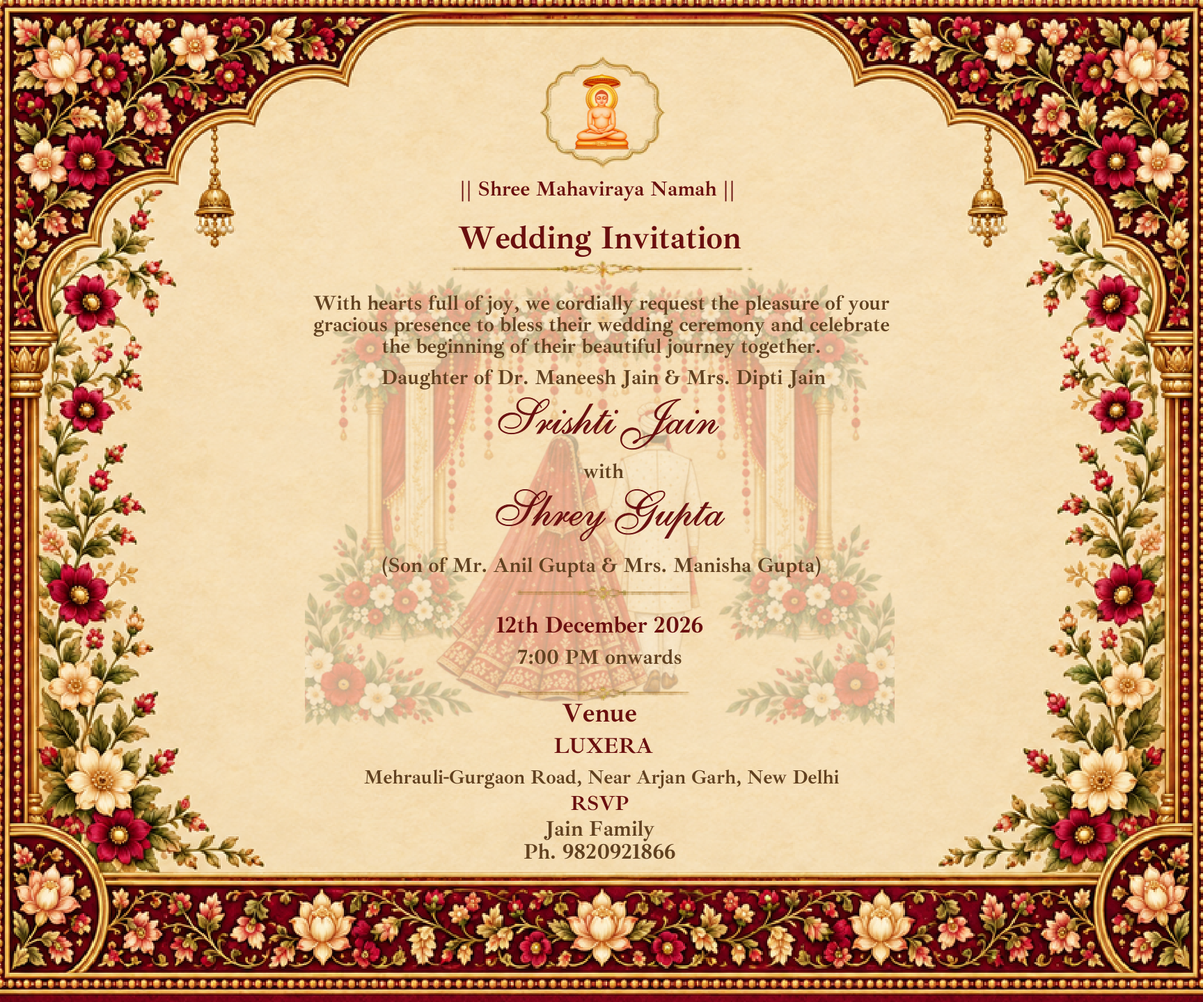
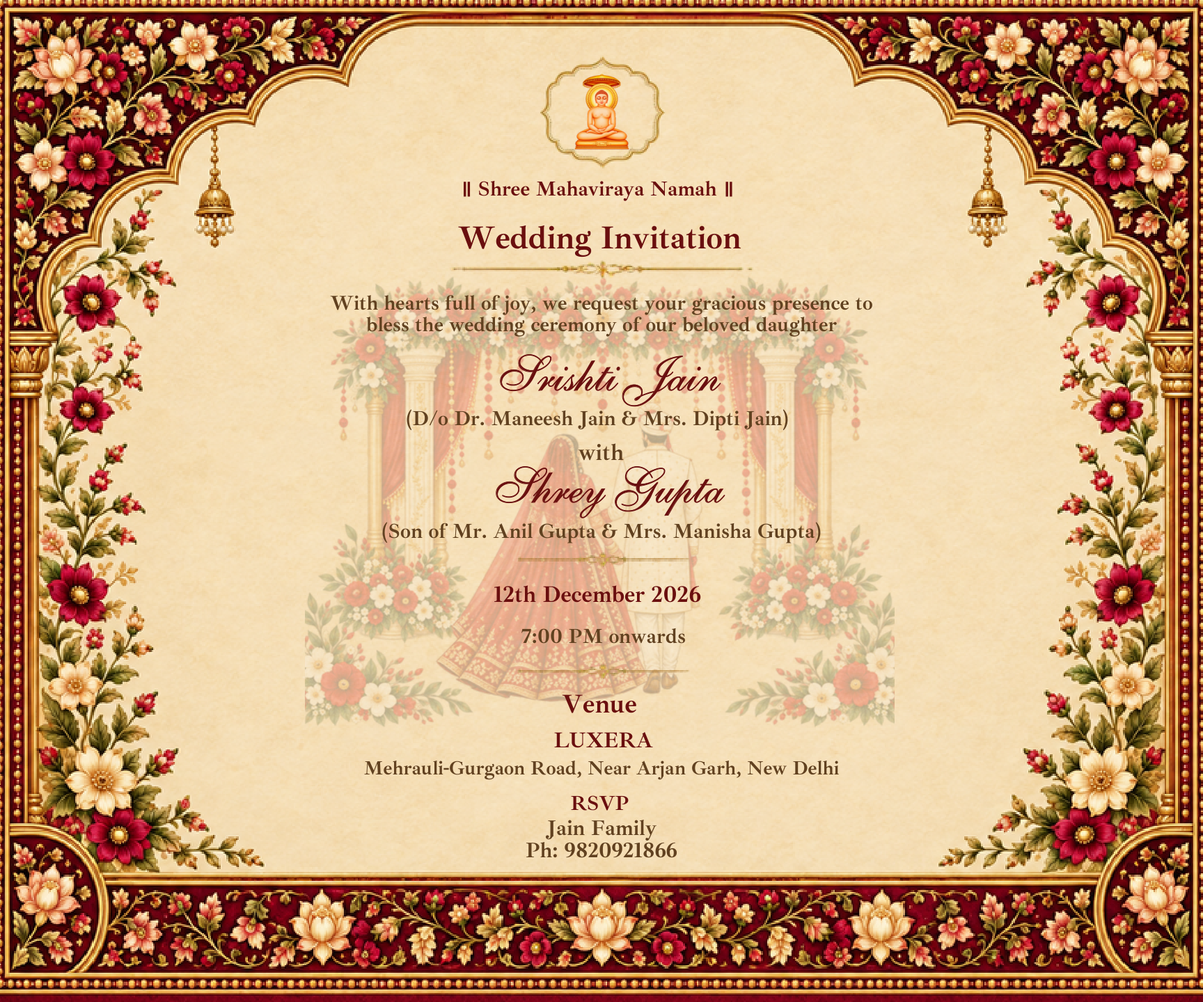
Refresh formal invite and simplify RSVP

Changed region(s): [[0.25, 0.2812, 0.75, 0.7812], [0.4375, 0.8125, 0.5625, 0.875], [0.3125, 0.5312, 0.3438, 0.5938]]

diff --git a/nikki-wedding-cloudflare/app/invitation-client.tsx b/nikki-wedding-cloudflare/app/invitation-client.tsx
@@ -1,20 +1,20 @@
 'use client';
-import {useEffect,useState} from 'react';import {Config,EventInfo,dateLabel,guestEventName,isFormalWedding,selectDesign,timeLabel,rsvpEventId} from '@/lib/invitation';import {Dialog,DialogContent,DialogTitle,DialogDescription} from '@/components/ui/dialog';import {Checkbox} from '@/components/ui/checkbox';import {RadioGroup,RadioGroupItem} from '@/components/ui/radio-group';import {MapPin,CalendarDays,Heart,Mail,RotateCcw} from 'lucide-react';
+import {useEffect,useState} from 'react';import {Config,EventInfo,dateLabel,guestEventName,isFormalWedding,selectDesign,timeLabel} from '@/lib/invitation';import {Dialog,DialogContent,DialogTitle,DialogDescription} from '@/components/ui/dialog';import {Checkbox} from '@/components/ui/checkbox';import {RadioGroup,RadioGroupItem} from '@/components/ui/radio-group';import {MapPin,CalendarDays,Heart,Mail,RotateCcw} from 'lucide-react';
 function calendar(e:EventInfo,couple:string){const esc=(s:string)=>s.replace(/\\/g,'\\\\').replace(/\n/g,'\\n').replace(/,/g,'\\,').replace(/;/g,'\\;');const stamp=(t:string)=>e.date.replaceAll('-','')+'T'+t.replace(':','')+'00';const text=['BEGIN:VCALENDAR','VERSION:2.0','PRODID:-//Srishti Shrey//Wedding//EN','BEGIN:VEVENT','UID:'+e.id+'-2026@invitation','DTSTAMP:'+new Date().toISOString().replace(/[-:]/g,'').replace(/\.\d{3}/,''),'DTSTART;TZID=Asia/Kolkata:'+stamp(e.time),'DTEND;TZID=Asia/Kolkata:'+stamp(e.end),'SUMMARY:'+esc(guestEventName(e)+' · '+couple),'LOCATION:'+esc(e.venue+', '+e.city),'DESCRIPTION:'+esc(e.note),'END:VEVENT','END:VCALENDAR'].join('\r\n');const u=URL.createObjectURL(new Blob([text],{type:'text/calendar'}));const a=document.createElement('a');a.href=u;a.download=e.id+'.ics';a.click();setTimeout(()=>URL.revokeObjectURL(u),1000);}
-export default function Invitation({config:c,invite,preview=false}:{config:Config;invite?:any;preview?:boolean}){const initialSelection=c.events.filter(e=>!isFormalWedding(e.id)).map(e=>e.id);const [opened,setOpened]=useState(false),[selection,setSelection]=useState(initialSelection),[detail,setDetail]=useState<EventInfo|null>(null),[zoomed,setZoomed]=useState(false),[rsvpOpen,setRsvpOpen]=useState(false),[attendance,setAttendance]=useState(invite?.rsvp?.attendance||'yes'),[attending,setAttending]=useState<string[]>(invite?.rsvp?.events||(invite?.events||initialSelection).map(rsvpEventId)),[count,setCount]=useState(invite?.rsvp?.count||1),[guestName,setGuestName]=useState(invite?.rsvp?.name||invite?.name||''),[message,setMessage]=useState(invite?.rsvp?.message||''),[status,setStatus]=useState(''),[saving,setSaving]=useState(false),[saved,setSaved]=useState(invite?.rsvp||null);
-const ids=invite?.events||selection;const events=c.events.filter(e=>ids.includes(e.id));const rsvpOptions=events.filter((e,i)=>events.findIndex(other=>rsvpEventId(other.id)===rsvpEventId(e.id))===i).map(e=>({id:rsvpEventId(e.id),name:rsvpEventId(e.id)==='wedding'?'Wedding':e.name}));
+export default function Invitation({config:c,invite,preview=false}:{config:Config;invite?:any;preview?:boolean}){const initialSelection=c.events.filter(e=>!isFormalWedding(e.id)).map(e=>e.id);const [opened,setOpened]=useState(false),[selection,setSelection]=useState(initialSelection),[detail,setDetail]=useState<EventInfo|null>(null),[zoomed,setZoomed]=useState(false),[rsvpOpen,setRsvpOpen]=useState(false),[attendance,setAttendance]=useState(invite?.rsvp?.attendance||'yes'),[guestName,setGuestName]=useState(invite?.rsvp?.name||invite?.name||''),[status,setStatus]=useState(''),[saving,setSaving]=useState(false),[saved,setSaved]=useState(invite?.rsvp||null);
+const ids=invite?.events||selection;const events=c.events.filter(e=>ids.includes(e.id));
 useEffect(()=>{const ctx=(document as any).modelContext;if(!ctx?.registerTool)return;const life=new AbortController();Promise.resolve(ctx.registerTool({name:'open_wedding_invitation',description:'Open the envelope and reveal this invitation’s event cards.',inputSchema:{type:'object',properties:{},additionalProperties:false},annotations:{readOnlyHint:false},execute(){setOpened(true);return {opened:true,events:events.map(guestEventName)}}},{signal:life.signal})).catch(()=>{});return ()=>life.abort();},[ids.join(',')]);
 useEffect(()=>{setZoomed(false)},[detail?.id]);
-async function send(e:React.FormEvent){e.preventDefault();const who=guestName.trim();if(who.length<2){setStatus('Please enter your name.');return;}if(preview){setStatus('This is a preview. A response is saved only from a family invitation link.');return;}setSaving(true);setStatus('');try{const r=await fetch('/api/rsvp',{method:'POST',headers:{'Content-Type':'application/json'},body:JSON.stringify({token:invite.token,name:who,attendance,count:Number(count),events:attending,message})});const b:any=await r.json();if(!r.ok)throw Error(b.error);setSaved(b.rsvp);setStatus('Thank you, '+who+'! Your response has been saved. You can update it here anytime.');}catch(e){setStatus(e instanceof Error?e.message:'Please try again.')}finally{setSaving(false)}}
+async function send(e:React.FormEvent){e.preventDefault();const who=guestName.trim();if(who.length<2){setStatus('Please enter your name.');return;}if(preview){setStatus('This is a preview. A response is saved only from a family invitation link.');return;}setSaving(true);setStatus('');try{const r=await fetch('/api/rsvp',{method:'POST',headers:{'Content-Type':'application/json'},body:JSON.stringify({token:invite.token,name:who,attendance})});const b:any=await r.json();if(!r.ok)throw Error(b.error);setSaved(b.rsvp);setStatus('Thank you, '+who+'! Your response has been saved. You can update it here anytime.');}catch(e){setStatus(e instanceof Error?e.message:'Please try again.')}finally{setSaving(false)}}
 return <main className={'invitation '+(opened?'is-open':'')}>
 {preview&&<aside className="preview-bar"><span>Invitation preview</span></aside>}
-<header className={'invite-heading'+(opened?'':' is-closed')}><div className="eyebrow">{opened?'WITH LOVE & THE BLESSINGS OF OUR FAMILIES':'YOU ARE INVITED'}</div><h1>{c.couple}</h1><div className="heading-line"><span/> <Heart size={15} strokeWidth={1.3}/> <span/></div>{opened&&<p>{invite?.name?<>Dear {invite.name},<br/>we would love to celebrate with you.</>:'Together with our families, we invite you to celebrate.'}</p>}</header>
+<header className={'invite-heading'+(opened?'':' is-closed')}><div className="eyebrow">{opened?'WITH LOVE & THE BLESSINGS OF OUR FAMILIES':'YOU ARE INVITED'}</div><h1>{c.couple}</h1><div className="heading-line"><span/> <Heart size={15} strokeWidth={1.3}/> <span/></div></header>
 {preview&&<div className="preview-events" aria-label="Preview event combination">{c.events.map(e=><label key={e.id}><Checkbox checked={selection.includes(e.id)} disabled={selection.length===1&&selection.includes(e.id)} onCheckedChange={v=>setSelection(current=>selectDesign(current,e.id,!!v))}/>{guestEventName(e)}</label>)}</div>}
 <section className="envelope-stage" aria-label="Wedding invitation envelope">
 <div className={'envelope '+(opened?'opened':'')}><div className="envelope-inside"><Heart size={26}/><p>A celebration of love</p></div><div className="door left-door" style={{backgroundImage:`url("${c.envelope}")`}}/><div className="door right-door" style={{backgroundImage:`url("${c.envelope}")`}}/>{!opened&&<button className="envelope-hit" onClick={()=>setOpened(true)} aria-label="Open your wedding invitation"><span><Mail size={17}/> Tap to open</span></button>}</div>
 </section>
-{opened?<section className="revealed"><div className="section-title"><div className="eyebrow">YOU’RE INVITED TO</div><h2>Our celebrations</h2><p>Select a card to see the details</p></div><div className={'event-cards count-'+events.length}>{events.map((e,i)=><button className={'event-card '+e.id} style={{animationDelay:i*120+'ms'}} onClick={()=>setDetail(e)} key={e.id}><div className="card-image"><img src={e.image} alt={guestEventName(e)+' invitation artwork'}/></div><div className="card-caption"><h3>{guestEventName(e)}</h3><p>{new Date(e.date+'T12:00:00').toLocaleDateString('en-IN',{day:'numeric',month:'long'})} · {e.city}</p><span>View invitation</span></div></button>)}</div><div className="rsvp-callout"><div><div className="eyebrow">A LITTLE NOTE BACK</div><h2>Will you celebrate with us?</h2><p>{saved?'Saved for '+saved.name+'. You can update it below.':'We look forward to sharing these moments with you.'}</p></div><button className="primary" onClick={()=>{setRsvpOpen(true);setStatus('')}}>{saved?'Update RSVP':'Send RSVP'}</button></div><button className="text-button close-envelope" onClick={()=>setOpened(false)}><RotateCcw size={14}/> Close the envelope</button></section>:<p className="envelope-foot">A little invitation. A lifetime of memories.</p>}
+{opened?<section className="revealed"><div className={'event-cards count-'+events.length}>{events.map((e,i)=><button className={'event-card '+e.id} style={{animationDelay:i*120+'ms'}} onClick={()=>setDetail(e)} key={e.id}><div className="card-image"><img src={e.image} alt={guestEventName(e)+' invitation artwork'}/></div><div className="card-caption"><h3>{guestEventName(e)}</h3><p>{new Date(e.date+'T12:00:00').toLocaleDateString('en-IN',{day:'numeric',month:'long'})} · {e.city}</p><span>View invitation</span></div></button>)}</div><div className="rsvp-callout"><div><div className="eyebrow">A LITTLE NOTE BACK</div><h2>Will you celebrate with us?</h2><p>{saved?'Saved for '+saved.name+'. You can update it below.':'We look forward to sharing these moments with you.'}</p></div><button className="primary" onClick={()=>{setRsvpOpen(true);setStatus('')}}>{saved?'Update RSVP':'Send RSVP'}</button></div><button className="text-button close-envelope" onClick={()=>setOpened(false)}><RotateCcw size={14}/> Close the envelope</button></section>:<p className="envelope-foot">A little invitation. A lifetime of memories.</p>}
 <footer className="invite-footer">Srishti & Shrey <span>♡</span> December 2026</footer>
-<Dialog open={!!detail} onOpenChange={v=>!v&&setDetail(null)}><DialogContent className={"event-dialog"+(detail&&isFormalWedding(detail.id)?" formal-dialog":"")}>{detail&&<><div className="detail-art">{isFormalWedding(detail.id)?<button type="button" className={"formal-image-button"+(zoomed?" is-zoomed":"")} onClick={()=>setZoomed(value=>!value)} aria-label={zoomed?"Zoom out of formal invitation":"Zoom in on formal invitation"}><img src={detail.image} alt={guestEventName(detail)+' invitation'}/></button>:<img src={detail.image} alt={guestEventName(detail)+' invitation'}/>}</div><div className="detail-info"><div className="eyebrow">PLEASE JOIN US FOR</div><DialogTitle className="detail-title">{guestEventName(detail)}</DialogTitle><DialogDescription>{detail.note}</DialogDescription>{isFormalWedding(detail.id)&&<p className="formal-zoom-hint">Tap the artwork to zoom in, then scroll to read it.</p>}<div className="detail-row"><CalendarDays size={19}/><div>{dateLabel(detail)}<small>{timeLabel(detail)} onwards · India time</small></div></div><div className="detail-row"><MapPin size={19}/><div>{detail.venue}<small>{detail.city}</small></div></div>{detail.map?<a className="primary" href={detail.map} target="_blank" rel="noreferrer">Venue directions</a>:<p className="muted">Exact venue map link to be confirmed.</p>}<button className="secondary" onClick={()=>calendar(detail,c.couple)}>Add to calendar</button><button className="primary" onClick={()=>{setDetail(null);setRsvpOpen(true);setStatus('')}}>{saved?'Update RSVP':'RSVP'}</button></div></>}</DialogContent></Dialog>
-<Dialog open={rsvpOpen} onOpenChange={setRsvpOpen}><DialogContent className="rsvp-dialog"><div className="eyebrow">WE HOPE TO SEE YOU</div><DialogTitle className="detail-title">Your RSVP</DialogTitle><DialogDescription>{invite?.name?'Responding for '+invite.name:'Please share your name with your reply.'}</DialogDescription><form onSubmit={send}><label className="field">Your name<input required maxLength={120} autoComplete="name" value={guestName} onChange={e=>setGuestName(e.target.value)} placeholder="The name we should save with this RSVP"/></label><RadioGroup value={attendance} onValueChange={setAttendance} className="response-options"><label><RadioGroupItem value="yes"/>Joyfully accept</label><label><RadioGroupItem value="no"/>Regretfully decline</label></RadioGroup>{attendance==='yes'&&<><fieldset><legend>Which celebrations will you attend?</legend>{rsvpOptions.map(e=><label className="check-row" key={e.id}><Checkbox checked={attending.includes(e.id)} onCheckedChange={v=>setAttending(v?[...attending,e.id]:attending.filter(x=>x!==e.id))}/>{e.name}</label>)}</fieldset><label className="field">Total guests, including you<input type="number" min="1" max="30" required value={count} onChange={e=>setCount(Number(e.target.value))}/></label></>}<label className="field">A message for the family <span>(optional)</span><textarea maxLength={500} rows={3} value={message} onChange={e=>setMessage(e.target.value)} placeholder="Send your wishes…"/></label><button className="primary" disabled={saving}>{saving?'Saving…':'Submit RSVP'}</button><p role="status" className="form-status">{status}</p></form></DialogContent></Dialog>
+<Dialog open={!!detail} onOpenChange={v=>!v&&setDetail(null)}><DialogContent className={"event-dialog"+(detail&&isFormalWedding(detail.id)?" formal-dialog":"")}>{detail&&<><div className="detail-art">{isFormalWedding(detail.id)?<button type="button" className={"formal-image-button"+(zoomed?" is-zoomed":"")} onClick={()=>setZoomed(value=>!value)} aria-label={zoomed?"Zoom out of formal invitation":"Zoom in on formal invitation"}><img src={detail.image} alt={guestEventName(detail)+' invitation'}/></button>:<img src={detail.image} alt={guestEventName(detail)+' invitation'}/>}</div><div className="detail-info"><div className="eyebrow">PLEASE JOIN US FOR</div><DialogTitle className="detail-title">{guestEventName(detail)}</DialogTitle><DialogDescription>{detail.note}</DialogDescription>{isFormalWedding(detail.id)&&<p className="formal-zoom-hint">Tap the artwork to zoom in, then scroll to read it.</p>}<div className="detail-row"><CalendarDays size={19}/><div>{dateLabel(detail)}<small>{timeLabel(detail)} onwards · India time</small></div></div><div className="detail-row"><MapPin size={19}/><div>{detail.venue}<small>{detail.city}</small></div></div>{detail.map&&<a className="primary" href={detail.map} target="_blank" rel="noreferrer">Open in Google Maps</a>}<button className="secondary" onClick={()=>calendar(detail,c.couple)}>Add to calendar</button><button className="primary" onClick={()=>{setDetail(null);setRsvpOpen(true);setStatus('')}}>{saved?'Update RSVP':'RSVP'}</button></div></>}</DialogContent></Dialog>
+<Dialog open={rsvpOpen} onOpenChange={setRsvpOpen}><DialogContent className="rsvp-dialog"><div className="eyebrow">WE HOPE TO SEE YOU</div><DialogTitle className="detail-title">Your RSVP</DialogTitle><DialogDescription>{invite?.name?'Responding for '+invite.name:'Please share your name with your reply.'}</DialogDescription><form onSubmit={send}><label className="field">Your name<input required maxLength={120} autoComplete="name" value={guestName} onChange={e=>setGuestName(e.target.value)} placeholder="The name we should save with this RSVP"/></label><RadioGroup value={attendance} onValueChange={setAttendance} className="response-options"><label><RadioGroupItem value="yes"/>Joyfully accept</label><label><RadioGroupItem value="no"/>Regretfully decline</label></RadioGroup><button className="primary" disabled={saving}>{saving?'Saving…':'Submit RSVP'}</button><p role="status" className="form-status">{status}</p></form></DialogContent></Dialog>
 </main>}

diff --git a/nikki-wedding-cloudflare/app/admin/manager.tsx b/nikki-wedding-cloudflare/app/admin/manager.tsx
@@ -11,8 +11,8 @@ async function copy(s:string){try{await navigator.clipboard.writeText(s);setStat
 function whatsApp(link:string,who:string){const text=(who?`Dear ${who}, you are invited`:'You are invited')+` to celebrate with Srishti Jain and Shrey Gupta.\n${link}`;window.open('https://wa.me/?text='+encodeURIComponent(text),'_blank','noopener,noreferrer')}
 function exportCsv(){const rows=[['Family','Responded by','Invited events','RSVP','Attending events','Guest count','Message'],...data.guests.filter((g:any)=>g.kind!=='generic').map((g:any)=>[g.kind==='response'?'':g.name,g.rsvp?.name||g.name,g.events.join(' + '),g.rsvp?.attendance||'Awaiting response',g.rsvp?.events.join(' + ')||'',g.rsvp?.count??'',g.rsvp?.message||''])];const csv=rows.map(r=>r.map((x:any)=>'"'+String(x).replace(/"/g,'""').replace(/^[=+@-]/,"'$&")+'"').join(',')).join('\r\n');const u=URL.createObjectURL(new Blob(['\ufeff'+csv],{type:'text/csv;charset=utf-8'}));const a=document.createElement('a');a.href=u;a.download='wedding-rsvps.csv';a.click();setTimeout(()=>URL.revokeObjectURL(u),1000)}
 if(!c||!data)return <main className="notice"><h1>Family invitation studio</h1><p role="status">{status||'Opening your invitations…'}</p><button className="secondary" onClick={load}>Retry</button></main>;
-return <main className="studio"><header className="studio-header"><a className="studio-brand" href="/"><Mail size={22}/> S <span>&</span> S</a><div className="flex gap-3"><a className="secondary" href="/" target="_blank">Preview invitation <ExternalLink size={15}/></a><form method="post" action="/api/admin/logout"><button className="secondary">Sign out</button></form></div></header><div className="studio-intro"><div className="eyebrow">FOR THE FAMILY</div><h1>Invitation studio</h1><p>Choose who joins each celebration, and make every invitation your own.</p></div><div className="stats"><div><strong>{data.guests.filter((g:any)=>g.kind!=='generic'&&g.kind!=='response').length}</strong><span>Family invitations</span></div><div><strong>{data.guests.filter((g:any)=>g.rsvp).length}</strong><span>Responses received</span></div><div><strong>{data.guests.reduce((n:number,g:any)=>n+(g.kind==='generic'?0:g.rsvp?.count||0),0)}</strong><span>Guests accepting</span></div></div>
+return <main className="studio"><header className="studio-header"><a className="studio-brand" href="/"><Mail size={22}/> S <span>&</span> S</a><div className="flex gap-3"><a className="secondary" href="/" target="_blank">Preview invitation <ExternalLink size={15}/></a><form method="post" action="/api/admin/logout"><button className="secondary">Sign out</button></form></div></header><div className="studio-intro"><div className="eyebrow">FOR THE FAMILY</div><h1>Invitation studio</h1><p>Choose who joins each celebration, and make every invitation your own.</p></div><div className="stats"><div><strong>{data.guests.filter((g:any)=>g.kind!=='generic'&&g.kind!=='response').length}</strong><span>Family invitations</span></div><div><strong>{data.guests.filter((g:any)=>g.rsvp).length}</strong><span>Responses received</span></div><div><strong>{data.guests.filter((g:any)=>g.kind!=='generic'&&g.rsvp?.attendance==='yes').length}</strong><span>Accepting RSVPs</span></div></div>
 <Tabs defaultValue="guests"><TabsList className="studio-tabs"><TabsTrigger value="guests"><Users size={16}/> Guests & RSVP</TabsTrigger><TabsTrigger value="artwork"><ImagePlus size={16}/> Artwork & events</TabsTrigger></TabsList>
-<TabsContent value="guests"><div className="guest-layout"><section className="panel"><h2>Create an invitation</h2><p>Only the celebrations you select will appear for this family.</p><form onSubmit={e=>{e.preventDefault();act(async()=>{const b:any=await post({action:'guest',name,events});setNewLink(location.origin+'/i/'+b.token);setSentTo(name.trim());setName('');await load();setStatus('Invitation created. Copy the link and send it on WhatsApp.');})}}><label className="field">Guest or family name<input required maxLength={120} value={name} onChange={e=>setName(e.target.value)} placeholder="e.g. The Joshi family"/></label><fieldset><legend>Invite them to</legend>{c.events.map(e=><label className="check-row" key={e.id}><Checkbox checked={events.includes(e.id)} onCheckedChange={v=>setEvents(current=>selectDesign(current,e.id,!!v))}/>{adminEventName(e)}</label>)}</fieldset><button className="primary" disabled={busy||!events.length}>Create invitation link</button></form>{newLink&&<div className="new-link"><label className="field">Invitation link<input readOnly value={newLink}/></label><button className="secondary" onClick={()=>copy(newLink)}><Copy size={15}/>Copy link</button><button className="primary" onClick={()=>whatsApp(newLink,sentTo||'family')}>Send on WhatsApp</button><a className="secondary" href={newLink} target="_blank">Open invitation</a></div>}</section><section className="panel guest-list"><div className="panel-heading"><h2>Guest list</h2><button className="text-button" onClick={exportCsv}><Download size={15}/>Export CSV</button></div>{!data.guests.some((g:any)=>g.kind!=='generic')?<div className="empty"><Mail size={30}/><h3>Your first invitation starts here</h3><p>Add a family and select their celebrations.</p></div>:<div className="table-scroll"><Table><TableHeader><TableRow><TableHead>Family</TableHead><TableHead>Invited to</TableHead><TableHead>RSVP</TableHead><TableHead>Link</TableHead></TableRow></TableHeader><TableBody>{data.guests.filter((g:any)=>g.kind!=='generic').map((g:any)=><TableRow key={g.token}><TableCell><strong>{g.name||'Reply'}</strong>{g.kind==='response'&&<small>From a generic link</small>}{g.rsvp?.name&&<small>RSVP from {g.rsvp.name}</small>}{g.rsvp?.message&&<small>{g.rsvp.message}</small>}</TableCell><TableCell>{g.events.map((id:string)=>adminEventName(c.events.find(e=>e.id===id)!)).join(', ')}</TableCell><TableCell><span className={'badge '+(g.rsvp?.attendance||'pending')}>{g.rsvp?(g.rsvp.attendance==='yes'?g.rsvp.count+' attending':'Declined'):'Awaiting'}</span>{g.rsvp?.attendance==='yes'&&<small>{g.rsvp.events.join(', ')}</small>}</TableCell><TableCell><button className="text-button" aria-label={'Copy invitation for '+g.name} onClick={()=>copy(location.origin+'/i/'+g.token)}><Copy size={16}/></button><button className="text-button" aria-label={'Send WhatsApp invitation for '+g.name} onClick={()=>whatsApp(location.origin+'/i/'+g.token,g.name)}>WhatsApp</button></TableCell></TableRow>)}</TableBody></Table></div>}</section></div><section className="panel" style={{marginTop:24}}><div className="panel-heading"><div><h2>Generic links</h2><p>No name on the card. Share one link with a group. Each person still enters their name when they RSVP.</p></div><button className="secondary" disabled={busy} onClick={()=>act(async()=>{await post({action:'generics'});await load();setStatus('The generic links are ready to copy.');})}>Create all 15</button></div><div className="generic-links">{genericCombinations.map(ids=>{const row=data.guests.find((g:any)=>g.kind==='generic'&&ids.every(id=>g.events.includes(id))&&g.events.length===ids.length);const label=ids.map(id=>adminEventName(c.events.find(e=>e.id===id)!)).join(' + ');const link=row?location.origin+'/i/'+row.token:'';return <div className="generic-row" key={ids.join()}><strong>{label}</strong>{row?<div className="flex gap-3"><button className="text-button" onClick={()=>copy(link)}><Copy size={15}/>Copy link</button><button className="text-button" onClick={()=>whatsApp(link,'')}>WhatsApp</button><a className="text-button" href={link} target="_blank">Open</a></div>:<button className="secondary" disabled={busy} onClick={()=>act(async()=>{const b:any=await post({action:'guest',generic:true,name:'',events:ids});setNewLink(location.origin+'/i/'+b.token);setSentTo('');await load();setStatus(label+' link is ready.');})}>Create link</button>}</div>})}</div></section></TabsContent>
+<TabsContent value="guests"><div className="guest-layout"><section className="panel"><h2>Create an invitation</h2><p>Only the celebrations you select will appear for this family.</p><form onSubmit={e=>{e.preventDefault();act(async()=>{const b:any=await post({action:'guest',name,events});setNewLink(location.origin+'/i/'+b.token);setSentTo(name.trim());setName('');await load();setStatus('Invitation created. Copy the link and send it on WhatsApp.');})}}><label className="field">Guest or family name<input required maxLength={120} value={name} onChange={e=>setName(e.target.value)} placeholder="e.g. The Joshi family"/></label><fieldset><legend>Invite them to</legend>{c.events.map(e=><label className="check-row" key={e.id}><Checkbox checked={events.includes(e.id)} onCheckedChange={v=>setEvents(current=>selectDesign(current,e.id,!!v))}/>{adminEventName(e)}</label>)}</fieldset><button className="primary" disabled={busy||!events.length}>Create invitation link</button></form>{newLink&&<div className="new-link"><label className="field">Invitation link<input readOnly value={newLink}/></label><button className="secondary" onClick={()=>copy(newLink)}><Copy size={15}/>Copy link</button><button className="primary" onClick={()=>whatsApp(newLink,sentTo||'family')}>Send on WhatsApp</button><a className="secondary" href={newLink} target="_blank">Open invitation</a></div>}</section><section className="panel guest-list"><div className="panel-heading"><h2>Guest list</h2><button className="text-button" onClick={exportCsv}><Download size={15}/>Export CSV</button></div>{!data.guests.some((g:any)=>g.kind!=='generic')?<div className="empty"><Mail size={30}/><h3>Your first invitation starts here</h3><p>Add a family and select their celebrations.</p></div>:<div className="table-scroll"><Table><TableHeader><TableRow><TableHead>Family</TableHead><TableHead>Invited to</TableHead><TableHead>RSVP</TableHead><TableHead>Link</TableHead></TableRow></TableHeader><TableBody>{data.guests.filter((g:any)=>g.kind!=='generic').map((g:any)=><TableRow key={g.token}><TableCell><strong>{g.name||'Reply'}</strong>{g.kind==='response'&&<small>From a generic link</small>}{g.rsvp?.name&&<small>RSVP from {g.rsvp.name}</small>}{g.rsvp?.message&&<small>{g.rsvp.message}</small>}</TableCell><TableCell>{g.events.map((id:string)=>adminEventName(c.events.find(e=>e.id===id)!)).join(', ')}</TableCell><TableCell><span className={'badge '+(g.rsvp?.attendance||'pending')}>{g.rsvp?(g.rsvp.attendance==='yes'?'Accepted':'Declined'):'Awaiting'}</span>{g.rsvp?.attendance==='yes'&&<small>{g.rsvp.events.join(', ')}</small>}</TableCell><TableCell><button className="text-button" aria-label={'Copy invitation for '+g.name} onClick={()=>copy(location.origin+'/i/'+g.token)}><Copy size={16}/></button><button className="text-button" aria-label={'Send WhatsApp invitation for '+g.name} onClick={()=>whatsApp(location.origin+'/i/'+g.token,g.name)}>WhatsApp</button></TableCell></TableRow>)}</TableBody></Table></div>}</section></div><section className="panel" style={{marginTop:24}}><div className="panel-heading"><div><h2>Generic links</h2><p>No name on the card. Share one link with a group. Each person still enters their name when they RSVP.</p></div><button className="secondary" disabled={busy} onClick={()=>act(async()=>{await post({action:'generics'});await load();setStatus('The generic links are ready to copy.');})}>Create all 15</button></div><div className="generic-links">{genericCombinations.map(ids=>{const row=data.guests.find((g:any)=>g.kind==='generic'&&ids.every(id=>g.events.includes(id))&&g.events.length===ids.length);const label=ids.map(id=>adminEventName(c.events.find(e=>e.id===id)!)).join(' + ');const link=row?location.origin+'/i/'+row.token:'';return <div className="generic-row" key={ids.join()}><strong>{label}</strong>{row?<div className="flex gap-3"><button className="text-button" onClick={()=>copy(link)}><Copy size={15}/>Copy link</button><button className="text-button" onClick={()=>whatsApp(link,'')}>WhatsApp</button><a className="text-button" href={link} target="_blank">Open</a></div>:<button className="secondary" disabled={busy} onClick={()=>act(async()=>{const b:any=await post({action:'guest',generic:true,name:'',events:ids});setNewLink(location.origin+'/i/'+b.token);setSentTo('');await load();setStatus(label+' link is ready.');})}>Create link</button>}</div>})}</div></section></TabsContent>
 <TabsContent value="artwork"><section className="panel artwork-intro"><div><h2>Artwork & event details</h2><p>Swap any image without changing the opening animation. Images keep their original proportions.</p></div><button className="primary" disabled={busy} onClick={()=>act(async()=>{await post({action:'config',config:c});await load();setStatus('Artwork and event details saved for all invitations.');})}>Save artwork & details</button></section><div className="artwork-grid"><section className="panel artwork-panel"><h2>Envelope</h2><img className="envelope-thumbnail" src={c.envelope} alt="Current envelope"/><label className="upload"><ImagePlus size={16}/>Replace envelope<input type="file" accept="image/jpeg,image/png,image/webp" disabled={busy} onChange={e=>upload(e.target.files?.[0],'envelope')}/></label><p className="hint">Landscape artwork, ideally 10:9. The center becomes the opening seam.</p><label className="field">Couple’s names<input value={c.couple} onChange={e=>setC({...c,couple:e.target.value})}/></label></section>{c.events.map(e=><section className="panel artwork-panel" key={e.id}><h2>{adminEventName(e)}</h2><img className="insert-thumbnail" src={e.image} alt={adminEventName(e)+' artwork'}/><label className="upload"><ImagePlus size={16}/>Replace card<input type="file" accept="image/jpeg,image/png,image/webp" disabled={busy} onChange={v=>upload(v.target.files?.[0],e.id)}/></label><p className="hint">{isFormalWedding(e.id)?'Landscape artwork. JPG, PNG or WebP, under 8 MB.':'Portrait artwork. JPG, PNG or WebP, under 8 MB.'}</p><label className="field">Event name<input value={isFormalWedding(e.id)?'Wedding Invite':e.name} disabled={isFormalWedding(e.id)} onChange={v=>change(e.id,'name',v.target.value)}/></label><label className="field">Date<input type="date" value={e.date} onChange={v=>change(e.id,'date',v.target.value)}/></label><div className="two-fields"><label className="field">Starts (India time)<input type="time" value={e.time} onChange={v=>change(e.id,'time',v.target.value)}/></label><label className="field">Calendar end<input type="time" value={e.end} onChange={v=>change(e.id,'end',v.target.value)}/></label></div><label className="field">Venue<input value={e.venue} onChange={v=>change(e.id,'venue',v.target.value)}/></label><label className="field">City<input value={e.city} onChange={v=>change(e.id,'city',v.target.value)}/></label><label className="field">Exact map link<input type="url" value={e.map} onChange={v=>change(e.id,'map',v.target.value)} placeholder="https://maps.google.com/…"/></label><label className="field">Event note<textarea rows={3} value={e.note} onChange={v=>change(e.id,'note',v.target.value)}/></label></section>)}</div></TabsContent>
 </Tabs><p role="status" className="studio-status">{status}</p><footer className="studio-footer">Made with love, for Srishti & Shrey</footer></main>}

diff --git a/nikki-wedding-cloudflare/app/api/rsvp/route.ts b/nikki-wedding-cloudflare/app/api/rsvp/route.ts
@@ -1,3 +1,3 @@
 import {db} from '@/lib/storage';
 import {rsvpEventId} from '@/lib/invitation';
-export async function POST(req:Request){try{if(req.headers.get('origin')!==new URL(req.url).origin)return Response.json({error:'Invalid request'},{status:403});const b:any=await req.json();const row=await db().prepare('SELECT events, kind FROM invitations WHERE token = ?').bind(String(b.token)).first();if(!row)return Response.json({error:'Invitation not found'},{status:404});const name=String(b.name||'').trim();if(name.length<2||name.length>120)return Response.json({error:'Please enter your name.'},{status:400});const invited:string[]=JSON.parse(row.events);const allowed=new Set(invited.map(rsvpEventId));if(!['yes','no'].includes(b.attendance)||!Number.isInteger(b.count)||b.count<1||b.count>30||!Array.isArray(b.events)||b.events.some((x:any)=>typeof x!=='string'||!allowed.has(x))||(b.attendance==='yes'&&!b.events.length))return Response.json({error:'Check your attendance and guest count.'},{status:400});const r={name,attendance:b.attendance,count:b.attendance==='yes'?b.count:0,events:b.attendance==='yes'?[...new Set(b.events)] as string[]:[],message:String(b.message||'').slice(0,500),updated:new Date().toISOString()};const saved=JSON.stringify(r);if(row.kind==='generic'){const existing=await db().prepare("SELECT token FROM invitations WHERE kind = 'response' AND name = ? AND events = ?").bind(name,row.events).first();if(existing)await db().prepare('UPDATE invitations SET rsvp = ? WHERE token = ?').bind(saved,existing.token).run();else await db().prepare('INSERT INTO invitations (token,name,events,rsvp,created,kind) VALUES (?,?,?,?,?,?)').bind(crypto.randomUUID().replaceAll('-',''),name,row.events,saved,new Date().toISOString(),'response').run();}else await db().prepare('UPDATE invitations SET rsvp = ? WHERE token = ?').bind(saved,b.token).run();return Response.json({ok:true,rsvp:r});}catch{return Response.json({error:'Your response could not be saved. Please try again.'},{status:503})}}
+export async function POST(req:Request){try{if(req.headers.get('origin')!==new URL(req.url).origin)return Response.json({error:'Invalid request'},{status:403});const b:any=await req.json();const row=await db().prepare('SELECT events, kind FROM invitations WHERE token = ?').bind(String(b.token)).first();if(!row)return Response.json({error:'Invitation not found'},{status:404});const name=String(b.name||'').trim();if(name.length<2||name.length>120)return Response.json({error:'Please enter your name.'},{status:400});if(!['yes','no'].includes(b.attendance))return Response.json({error:'Choose whether you can attend.'},{status:400});const invited:string[]=JSON.parse(row.events);const r={name,attendance:b.attendance,events:b.attendance==='yes'?[...new Set(invited.map(rsvpEventId))]:[],updated:new Date().toISOString()};const saved=JSON.stringify(r);if(row.kind==='generic'){const existing=await db().prepare("SELECT token FROM invitations WHERE kind = 'response' AND name = ? AND events = ?").bind(name,row.events).first();if(existing)await db().prepare('UPDATE invitations SET rsvp = ? WHERE token = ?').bind(saved,existing.token).run();else await db().prepare('INSERT INTO invitations (token,name,events,rsvp,created,kind) VALUES (?,?,?,?,?,?)').bind(crypto.randomUUID().replaceAll('-',''),name,row.events,saved,new Date().toISOString(),'response').run();}else await db().prepare('UPDATE invitations SET rsvp = ? WHERE token = ?').bind(saved,b.token).run();return Response.json({ok:true,rsvp:r});}catch{return Response.json({error:'Your response could not be saved. Please try again.'},{status:503})}}

diff --git a/nikki-wedding-cloudflare/lib/invitation.ts b/nikki-wedding-cloudflare/lib/invitation.ts
@@ -2,6 +2,7 @@ export type EventInfo={id:string;name:string;date:string;time:string;end:string;
 export type Config={couple:string;envelope:string;draft:boolean;events:EventInfo[]};
 export const FORMAL_WEDDING_ID='formal_wedding_en';
 export const FORMAL_WEDDING_HI_ID='formal_wedding_hi';
+export const LUXERA_MAP_URL='https://maps.app.goo.gl/4Gag6ghJh5edHP9E7';
 export const weddingDesignIds=['wedding',FORMAL_WEDDING_ID,FORMAL_WEDDING_HI_ID];
 export const eventIds=['sangeet','haldi',...weddingDesignIds];
 export const genericCombinations=[
@@ -15,11 +16,11 @@ export function guestEventName(e:EventInfo){return isFormalWedding(e.id)?'Weddin
 export function selectDesign(current:string[],id:string,checked:boolean){return checked?[...current.filter(selected=>selected!==id&&!(weddingDesignIds.includes(id)&&weddingDesignIds.includes(selected))),id]:current.filter(selected=>selected!==id);}
 export function rsvpEventId(id:string){return isFormalWedding(id)?'wedding':id;}
 export function validSelection(ids:unknown):ids is string[]{return Array.isArray(ids)&&ids.length>0&&ids.every(id=>typeof id==='string'&&eventIds.includes(id))&&new Set(ids).size===ids.length&&ids.filter(id=>weddingDesignIds.includes(id)).length<=1;}
-export const defaults:Config={couple:'Srishti Jain weds Shrey Gupta',envelope:'/art/envelope.jpg',draft:false,events:[
+export const defaults:Config={couple:'Srishti weds Shrey',envelope:'/art/envelope.jpg',draft:false,events:[
 {id:'sangeet',name:'Sangeet',date:'2026-12-07',time:'17:30',end:'20:00',venue:'Hotel Radisson',city:'Bhopal',map:'',image:'/art/sangeet.jpg',note:'5:30 PM ring ceremony · 6:00–8:00 PM Sangeet, followed by dinner and photos on stage'},
 {id:'haldi',name:'Haldi',date:'2026-12-10',time:'11:00',end:'14:00',venue:'Luxera',city:'Delhi',map:'',image:'/art/haldi.jpg',note:'Showering the couple with love, laughter and turmeric!'},
 {id:'wedding',name:'Wedding',date:'2026-12-12',time:'18:00',end:'23:00',venue:'Luxera',city:'Delhi',map:'',image:'/art/wedding.jpg',note:'With the blessings of our families, we begin a new chapter together.'},
-{id:FORMAL_WEDDING_ID,name:'Wedding Invite',date:'2026-12-12',time:'19:00',end:'23:00',venue:'Luxera',city:'New Delhi',map:'',image:'/art/formal-wedding-en.png',note:'Mehrauli-Gurgaon Road, Near Arjan Garh, New Delhi'},
-{id:FORMAL_WEDDING_HI_ID,name:'Wedding Invite',date:'2026-12-12',time:'19:00',end:'23:00',venue:'Luxera',city:'New Delhi',map:'',image:'/art/formal-wedding-hi.png',note:'Mehrauli-Gurgaon Road, Near Arjan Garh, New Delhi'}]};
+{id:FORMAL_WEDDING_ID,name:'Wedding Invite',date:'2026-12-12',time:'19:00',end:'23:00',venue:'Luxera',city:'New Delhi',map:LUXERA_MAP_URL,image:'/art/formal-wedding-en.png',note:'Mehrauli-Gurgaon Road, Near Arjan Garh, New Delhi'},
+{id:FORMAL_WEDDING_HI_ID,name:'Wedding Invite',date:'2026-12-12',time:'19:00',end:'23:00',venue:'Luxera',city:'New Delhi',map:LUXERA_MAP_URL,image:'/art/formal-wedding-hi.png',note:'Mehrauli-Gurgaon Road, Near Arjan Garh, New Delhi'}]};
 export function dateLabel(e:EventInfo){return new Date(e.date+'T12:00:00').toLocaleDateString('en-IN',{weekday:'long',day:'numeric',month:'long',year:'numeric'});}
 export function timeLabel(e:EventInfo){return new Date(e.date+'T'+e.time).toLocaleTimeString('en-IN',{hour:'numeric',minute:'2-digit'});}

diff --git a/nikki-wedding-cloudflare/lib/storage.ts b/nikki-wedding-cloudflare/lib/storage.ts
@@ -1,5 +1,5 @@
 import {env} from 'cloudflare:workers';
 import {defaults,type Config} from './invitation';
 export function db(){const d=(env as any).DB;if(!d)throw new Error('Storage is unavailable. Please try again shortly.');return d;}
-export async function config():Promise<Config>{const r=await db().prepare('SELECT value FROM settings WHERE key = ?').bind('config').first();if(!r)return defaults;const saved=JSON.parse(r.value) as Config;return {...defaults,...saved,events:defaults.events.map(event=>saved.events?.find(item=>item.id===event.id)??event)};}
+export async function config():Promise<Config>{const r=await db().prepare('SELECT value FROM settings WHERE key = ?').bind('config').first();if(!r)return defaults;const saved=JSON.parse(r.value) as Config;return {...defaults,...saved,events:defaults.events.map(event=>{const previous=saved.events?.find(item=>item.id===event.id);return previous?{...previous,map:previous.map||event.map}:event})};}
 export {isAdmin as allowed} from './admin-auth';

diff --git a/nikki-wedding-cloudflare/README.md b/nikki-wedding-cloudflare/README.md
@@ -85,7 +85,11 @@ The preview helper copies the ignored local secrets file into the generated Work
 ## Swapping images
 In /admin, choose Artwork & events, upload a JPG/PNG/WebP under 8 MB for the envelope or a card, then select Save artwork & details. The animation stays the same. The envelope works best with landscape artwork and a centered seam; the cards work best with portrait artwork.
 
-The regular Wedding card and formal English and Hindi cards are three designs for the same Wedding RSVP. In /admin, the formal choices appear as **Wedding Invite (English)** and **Wedding Invite (Hindi)**. Shared links show **Wedding Invite** for either formal card. Select one Wedding design per link. Both formal cards show 7:00 PM, while the regular Wedding card remains at 6:00 PM. The 15 generic links include four combinations for each formal design. The formal cards use `public/art/formal-wedding-en.png` and `public/art/formal-wedding-hi.png`, rendered from the supplied PDFs at higher resolution for in-page zooming. The source PDFs and low-resolution English PNG remain local and are ignored by Git.
+The regular Wedding card and formal English and Hindi cards are three designs for the same Wedding RSVP. In /admin, the formal choices appear as **Wedding Invite (English)** and **Wedding Invite (Hindi)**. Shared links show **Wedding Invite** for either formal card. Select one Wedding design per link. Both formal cards show 7:00 PM, while the regular Wedding card remains at 6:00 PM. The 15 generic links include four combinations for each formal design. The formal cards use `public/art/formal-wedding-en.png` (rendered from draft 5) and `public/art/formal-wedding-hi.png`, rendered from the supplied PDFs at higher resolution for in-page zooming. The source PDFs and draft PNGs remain local and are ignored by Git.
+
+Guests now RSVP with their name and a single accept or decline choice for all celebrations on their link. New replies do not collect guest counts or messages. The admin dashboard counts accepting replies rather than people; CSV columns for guest counts and messages remain for older responses.
+
+The English and Hindi formal Wedding cards link to the supplied Luxera Google Maps location. Existing saved configurations with blank map fields pick up that link; a custom saved map link remains in place.
 
 Default images are in public/art. Initial data is in lib/invitation.ts. Once you save configuration in D1, that saved data overrides source defaults. Editing printed text inside an image requires replacing that image; the event fields below it remain editable.
 
@@ -95,7 +99,7 @@ This export starts a new database. It does not contain the current hosted Site's
 Guests open unguessable /i/... links without signing in. A forwarded link represents the same family, so keep personalized links private. Uploaded invitation artwork is available to anyone who has its URL. Management uses one shared family password in this edition rather than individual manager accounts.
 
 ## Draft content
-Confirm all event dates, venues and calendar end times. The original artwork shows incorrect weekdays for Sangeet and Wedding. Correct those images before turning off the draft notice. Exact map links are intentionally blank until the family confirms them.
+Confirm all event dates, venues and calendar end times. The original artwork shows incorrect weekdays for Sangeet and Wedding. Correct those images before turning off the draft notice. Map links for the other event cards are blank until the family confirms them.
 
 ## Free-plan checks
 Workers Free has request, script size and per-request CPU limits. This source builds successfully, but production free-plan CPU use must be measured on your account. Watch Worker errors and CPU metrics during your trial; optimize rendering or use a paid plan if needed. D1/R2 also have allowances; R2 can charge for usage beyond its free allowance.
